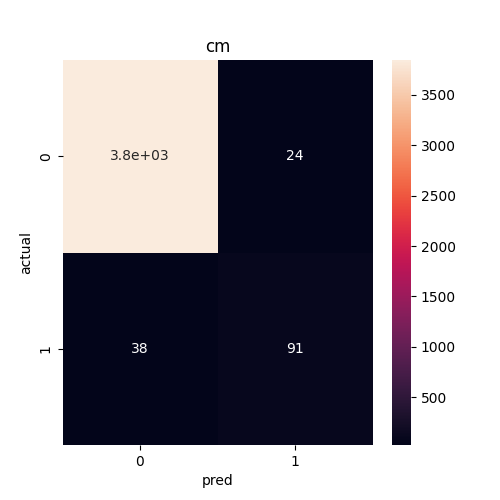
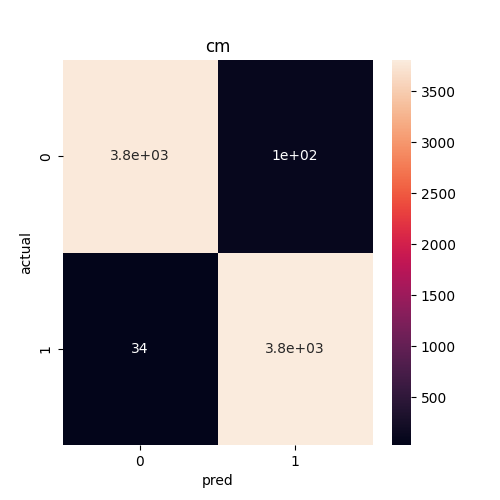
added last

diff --git a/src/data_collection.py b/src/data_collection.py
@@ -19,11 +19,12 @@ try:
     df = pd.concat([X,dfone],axis=1)
     df.drop('Type',axis=1,inplace=True)
 
-    #x,y = SMOTE().fit_resample(df,y['Machine failure'])
-    #x['Machine failure'] = y
-    x = df
-    y = y['Machine failure']
+    x,y = SMOTE().fit_resample(df,y['Machine failure'])
     x['Machine failure'] = y
+    
+    #y = y['Machine failure']
+    
+    #x['Machine failure'] = y
 
     test_size = yaml.safe_load(open('params.yaml'))['data_collection']['test_size']
 

diff --git a/src/model_building.py b/src/model_building.py
@@ -26,7 +26,7 @@ try:
     n_estimators = yaml.safe_load(open('params.yaml'))['model_building']['n_estimators']
 
 
-    rf = GradientBoostingClassifier(n_estimators=n_estimators)
+    rf = RandomForestClassifier(random_state=42)
     rf.fit(x_train, y_train)
 
 
